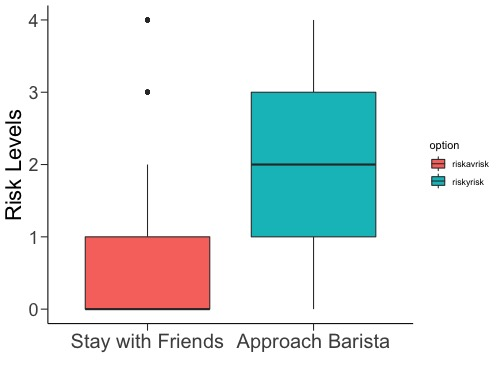
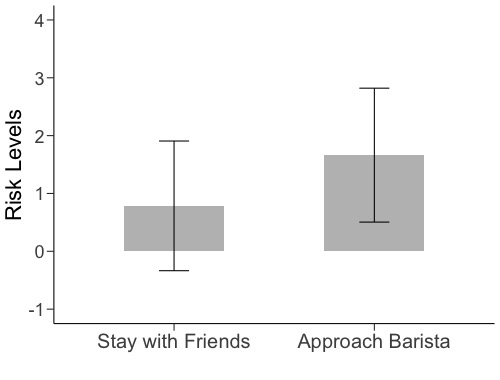
Revisions

diff --git a/viz-2.html b/viz-2.html
@@ -205,6 +205,30 @@ risk_all &lt;- risk_all %&gt;%
   axis.ticks.length=unit(.25, &quot;cm&quot;),
   axis.text = element_text(size = 18)
 )</code></pre>
+<pre class="r"><code>jpeg(&quot;manipulationcheck.jpg&quot;, width = 500, height = 380)
+
+risk_all %&gt;% 
+  pivot_longer(c(riskyrisk, riskavrisk), names_to = &quot;option&quot;, values_to = &quot;riskrating&quot;) %&gt;% 
+  group_by(option) %&gt;% 
+  summarise(
+    mean = mean(riskrating),
+    sd = sd(riskrating)
+  ) %&gt;% 
+  ggplot(aes(x = option, y = mean)) +
+  
+  geom_bar(stat = &quot;identity&quot;, fill = &quot;grey&quot;,position=position_dodge(), width = .5) +  
+  geom_errorbar(aes(ymin= mean-sd, ymax = mean + sd),  width=.15, position=position_dodge(.9)) +
+  labs(x = &quot;&quot;,
+       y = &quot;Risk Levels&quot;) +
+  scale_x_discrete(labels = c(&quot;Stay with Friends&quot;, &quot;Approach Barista&quot;)) +
+  scale_y_continuous(limits = c(-1, 4)) +
+  theme_classic() +
+  mytheme
+
+
+dev.off()</code></pre>
+<pre><code>## quartz_off_screen 
+##                 2</code></pre>
 <pre class="r"><code>df &lt;- risk_all %&gt;% 
   group_by(condition) %&gt;% 
   summarise(
@@ -234,11 +258,11 @@ df %&gt;%
   labs(x = &quot;&quot;,
        y = &quot;Risk Taking Levels&quot;) +
   scale_x_discrete(labels = c(&quot;Self&quot;, &quot;Surrogate&quot;, &quot;Prediction&quot;)) +
-  scale_y_continuous(limits = c(0,4)) +
+  scale_y_continuous(limits = c(0,6), breaks = c(0,1,2,3,4,5,6)) +
   theme_classic() +
-  mytheme</code></pre>
-<pre><code>## Warning: Removed 1 rows containing missing values (geom_bar).</code></pre>
-<pre class="r"><code>dev.off()</code></pre>
+  mytheme
+
+dev.off()</code></pre>
 <pre><code>## quartz_off_screen 
 ##                 2</code></pre>
 <pre class="r"><code>jpeg(&quot;neg_bar.jpg&quot;, width = 500, height = 380)

diff --git a/viz.html b/viz.html
@@ -208,15 +208,16 @@ risk_all &lt;- risk_all %&gt;%
 <pre class="r"><code>jpeg(&quot;manipulationcheck.jpg&quot;, width = 500, height = 380)
 
 risk_all %&gt;% 
-  pivot_longer(c(riskyrisk, riskavrisk), names_to = &quot;option&quot;, values_to = &quot;riskrating&quot;)  %&gt;% 
+  pivot_longer(c(riskyrisk, riskavrisk), names_to = &quot;option&quot;, values_to = &quot;riskrating&quot;) %&gt;%  
   ggplot(aes(x = option, y = riskrating, fill = option)) +
-  geom_boxplot() +
+  geom_bar(stat = &quot;identity&quot;, color = &quot;grey&quot;) +
   labs(x = &quot;&quot;,
        y = &quot;Risk Levels&quot;) +
   scale_x_discrete(labels = c(&quot;Stay with Friends&quot;, &quot;Approach Barista&quot;)) +
+  scale_y_continuous(limits = c(0, 4)) +
   theme_classic() +
   mytheme</code></pre>
-<pre><code>## Don&#39;t know how to automatically pick scale for object of type haven_labelled/vctrs_vctr/double. Defaulting to continuous.</code></pre>
+<pre><code>## Warning: Removed 1133 rows containing missing values (geom_bar).</code></pre>
 <pre class="r"><code>dev.off()</code></pre>
 <pre><code>## quartz_off_screen 
 ##                 2</code></pre>
